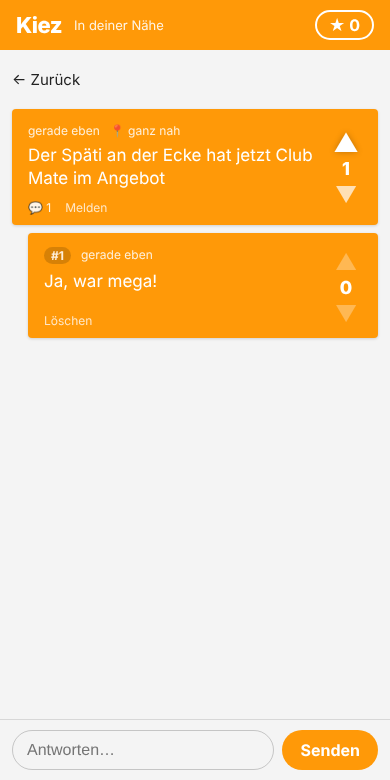
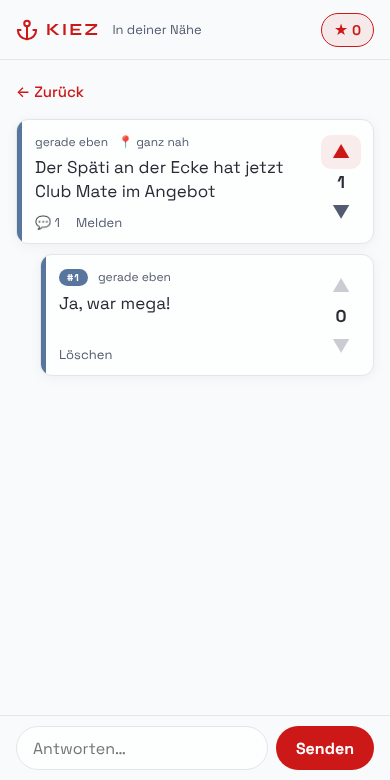
Design im Stil der Ideenwerft Friedenau
Ideenwerft-Rot, Space Grotesk und Syne, Anker-Logo, helle Karten mit
Farbakzent statt vollfarbiger Kacheln, Pillen-Tabs und Dark Mode.

Claude-Session: https://claude.ai/code/session_01GqcVvFXFRq6w9B8nTS5iGW

diff --git a/public/style.css b/public/style.css
@@ -1,66 +1,129 @@
-* { box-sizing: border-box; }
-:root { --orange: #FF9908; --bg: #f4f4f4; --text: #222; --muted: #888; --card-text: #fff; }
-@media (prefers-color-scheme: dark) { :root { --bg: #151515; --text: #eee; --muted: #999; } }
-html, body { margin: 0; background: var(--bg); color: var(--text);
-  font-family: -apple-system, BlinkMacSystemFont, "Segoe UI", Roboto, sans-serif; -webkit-tap-highlight-color: transparent; }
-body { padding-bottom: 96px; }
-button { font: inherit; cursor: pointer; }
+/* Kiez im Stil der Ideenwerft Friedenau: Space Grotesk, Syne, Ideenwerft-Rot, helle Karten */
+@font-face { font-family: 'Space Grotesk'; src: url('/fonts/SpaceGrotesk.woff2') format('woff2'); font-weight: 300 700; font-display: swap; }
+@font-face { font-family: 'Syne'; src: url('/fonts/Syne.woff2') format('woff2'); font-weight: 600 700; font-display: swap; }
 
-.topbar { position: sticky; top: 0; z-index: 5; display: flex; align-items: center; gap: 12px;
-  padding: calc(10px + env(safe-area-inset-top)) 16px 10px; background: var(--orange); color: #fff; }
-.brand { font-weight: 800; font-size: 22px; letter-spacing: -0.5px; }
-.place { flex: 1; font-size: 13px; opacity: .9; white-space: nowrap; overflow: hidden; text-overflow: ellipsis; }
-.karma { border: 2px solid #fff; background: transparent; color: #fff; border-radius: 20px; padding: 3px 12px; font-weight: 700; }
+* { box-sizing: border-box; }
+:root {
+  --background: hsl(210 30% 98%);
+  --foreground: hsl(220 15% 18%);
+  --card: hsl(210 20% 99.5%);
+  --muted: hsl(210 18% 95%);
+  --muted-foreground: hsl(220 14% 38%);
+  --border: hsl(210 15% 90%);
+  --primary: hsl(0 79% 45%);
+  --primary-soft: hsl(0 79% 45% / 0.08);
+  --primary-foreground: #fff;
+  --radius: 0.75rem;
+  --shadow: 0 2px 12px hsl(220 15% 18% / 0.05);
+  --font: 'Space Grotesk', system-ui, sans-serif;
+  --font-display: 'Syne', 'Space Grotesk', sans-serif;
+}
+@media (prefers-color-scheme: dark) {
+  :root {
+    --background: hsl(220 20% 10%);
+    --foreground: hsl(210 20% 92%);
+    --card: hsl(220 18% 13%);
+    --muted: hsl(220 15% 18%);
+    --muted-foreground: hsl(210 22% 75%);
+    --border: hsl(220 12% 22%);
+    --primary: hsl(0 72% 55%);
+    --primary-soft: hsl(0 72% 55% / 0.14);
+    --shadow: 0 2px 12px hsl(0 0% 0% / 0.25);
+  }
+}
+
+html, body { margin: 0; background: var(--background); color: var(--foreground); font-family: var(--font);
+  -webkit-font-smoothing: antialiased; -webkit-tap-highlight-color: transparent; }
+body { padding-bottom: 104px; }
+button { font: inherit; cursor: pointer; color: inherit; }
+[hidden] { display: none !important; }
+*:focus-visible { outline: 2px solid var(--primary); outline-offset: 2px; }
+
+/* Kopfzeile */
+.topbar { position: sticky; top: 0; z-index: 5; display: flex; align-items: center; gap: 12px; height: calc(60px + env(safe-area-inset-top));
+  padding: env(safe-area-inset-top) 16px 0; background: color-mix(in srgb, var(--background) 92%, transparent);
+  backdrop-filter: blur(16px); -webkit-backdrop-filter: blur(16px); border-bottom: 1px solid var(--border); }
+.brand { display: flex; align-items: center; gap: 8px; color: var(--primary); text-decoration: none; }
+.brand span { font-family: var(--font-display); font-weight: 700; letter-spacing: 0.12em; font-size: 17px; }
+.place { flex: 1; font-size: 13px; color: var(--muted-foreground); white-space: nowrap; overflow: hidden; text-overflow: ellipsis; }
+.karma { border: 1.5px solid var(--primary); background: var(--primary-soft); color: var(--primary); border-radius: 999px;
+  padding: 4px 12px; font-weight: 700; font-size: 14px; min-height: 34px; }
 .karma::before { content: "★ "; }
 
-.tabs { position: sticky; top: 52px; z-index: 4; display: flex; background: var(--orange); padding: 0 8px; }
-.tabs button { flex: 1; border: 0; background: transparent; color: rgba(255,255,255,.75); padding: 10px 4px;
-  font-weight: 600; border-bottom: 3px solid transparent; }
-.tabs button.active { color: #fff; border-bottom-color: #fff; }
+/* Überschrift wie die SectionHeader der Ideenwerft */
+.intro { max-width: 640px; margin: 0 auto; padding: 22px 16px 6px; }
+.eyebrow { display: block; font-size: 11px; font-weight: 700; text-transform: uppercase; letter-spacing: 0.16em; color: var(--primary); }
+.intro h1 { margin: 4px 0 0; font-size: 26px; font-weight: 700; letter-spacing: -0.01em; }
 
-main { max-width: 640px; margin: 0 auto; padding: 8px 0; }
-.post { position: relative; display: flex; gap: 8px; margin: 8px 12px; padding: 14px 10px 10px 16px; border-radius: 4px;
-  color: var(--card-text); min-height: 110px; box-shadow: 0 1px 3px rgba(0,0,0,.15); }
-.post .body { flex: 1; min-width: 0; display: flex; flex-direction: column; cursor: pointer; }
-.post .meta { font-size: 12px; opacity: .85; margin-bottom: 6px; display: flex; gap: 10px; }
-.post .text { font-size: 17px; line-height: 1.35; white-space: pre-wrap; word-wrap: break-word; flex: 1; }
-.post .footer { font-size: 12px; opacity: .9; margin-top: 10px; display: flex; gap: 14px; align-items: center; }
-.post .footer button { border: 0; background: transparent; color: inherit; opacity: .85; padding: 0; font-size: 12px; }
-.badge { background: rgba(0,0,0,.18); border-radius: 10px; padding: 1px 7px; font-weight: 700; }
+/* Sortierung als Pillen */
+.tabs { position: sticky; top: calc(60px + env(safe-area-inset-top)); z-index: 4; display: flex; gap: 6px; max-width: 640px; margin: 0 auto;
+  padding: 10px 16px; background: var(--background); }
+.tabs button { border: 1px solid var(--border); background: var(--card); padding: 8px 14px; border-radius: 999px; font-size: 14px;
+  font-weight: 500; color: var(--foreground); min-height: 38px; }
+.tabs button.active { border-color: transparent; background: var(--primary-soft); color: var(--primary); font-weight: 700; }
 
-.votes { display: flex; flex-direction: column; align-items: center; justify-content: center; width: 44px; }
-.votes button { border: 0; background: transparent; color: #fff; font-size: 22px; line-height: 1; padding: 4px 8px; opacity: .7; }
-.votes button.on { opacity: 1; transform: scale(1.15); text-shadow: 0 0 6px rgba(0,0,0,.25); }
+main { max-width: 640px; margin: 0 auto; padding: 4px 0 8px; }
+
+/* Post-Karten */
+.post { position: relative; display: flex; gap: 8px; margin: 10px 16px; padding: 14px 8px 12px 18px; border-radius: var(--radius);
+  background: var(--card); border: 1px solid var(--border); box-shadow: var(--shadow); overflow: hidden; min-height: 108px; }
+.post::before { content: ""; position: absolute; left: 0; top: 0; bottom: 0; width: 5px; background: var(--accent, var(--primary)); }
+.post .body { flex: 1; min-width: 0; display: flex; flex-direction: column; }
+.post .body[onclick], .post:not(.reply) .body { cursor: pointer; }
+.post .meta { font-size: 12px; color: var(--muted-foreground); margin-bottom: 6px; display: flex; gap: 10px; align-items: center; flex-wrap: wrap; }
+.post .text { font-size: 17px; line-height: 1.4; white-space: pre-wrap; overflow-wrap: anywhere; flex: 1; }
+.post .footer { font-size: 13px; color: var(--muted-foreground); margin-top: 10px; display: flex; gap: 16px; align-items: center; }
+.post .footer button { border: 0; background: transparent; color: inherit; padding: 0; font-size: 13px; min-height: 0; min-width: 0; }
+.post .footer button:hover { color: var(--primary); }
+.badge { font-size: 10px; font-weight: 700; text-transform: uppercase; letter-spacing: 0.1em; color: #fff;
+  background: var(--accent, var(--primary)); border-radius: 999px; padding: 2px 8px; }
+
+.votes { display: flex; flex-direction: column; align-items: center; justify-content: center; width: 48px; }
+.votes button { border: 0; background: transparent; color: var(--muted-foreground); font-size: 18px; line-height: 1;
+  width: 40px; height: 34px; border-radius: 10px; }
+.votes button:hover:not(:disabled) { background: var(--muted); }
+.votes button.on { color: var(--primary); background: var(--primary-soft); }
 .votes button:disabled { opacity: .3; cursor: default; }
-.votes .score { font-weight: 800; font-size: 18px; }
+.votes .score { font-weight: 700; font-size: 17px; padding: 2px 0; }
 
-.detail-head { display: flex; align-items: center; gap: 8px; padding: 4px 12px; }
-.detail-head button { border: 0; background: transparent; color: var(--text); font-size: 15px; padding: 8px 0; }
-.reply { min-height: 80px; margin-left: 28px; }
-.reply-form { position: fixed; left: 0; right: 0; bottom: 0; display: flex; gap: 8px; padding: 10px 12px calc(10px + env(safe-area-inset-bottom));
-  background: var(--bg); border-top: 1px solid rgba(128,128,128,.25); max-width: 640px; margin: 0 auto; }
-.reply-form input { flex: 1; border: 1px solid rgba(128,128,128,.4); border-radius: 20px; padding: 10px 14px; font-size: 16px;
-  background: transparent; color: var(--text); }
+/* Detailansicht */
+.detail-head { max-width: 640px; margin: 0 auto; padding: 10px 16px 0; }
+.detail-head button { border: 0; background: transparent; font-size: 15px; font-weight: 500; padding: 8px 0; color: var(--primary); }
+.reply { min-height: 84px; margin-left: 40px; }
+.reply-form { position: fixed; left: 0; right: 0; bottom: 0; display: flex; gap: 8px; padding: 10px 16px calc(10px + env(safe-area-inset-bottom));
+  background: color-mix(in srgb, var(--background) 92%, transparent); backdrop-filter: blur(16px); -webkit-backdrop-filter: blur(16px);
+  border-top: 1px solid var(--border); }
+.reply-form input { flex: 1; border: 1px solid var(--border); border-radius: 999px; padding: 10px 16px; font: inherit; font-size: 16px;
+  background: var(--card); color: var(--foreground); min-height: 44px; }
+.reply-form input:focus { outline: 2px solid var(--primary); outline-offset: 0; }
 
+/* Buttons */
 .fab { position: fixed; right: 20px; bottom: calc(24px + env(safe-area-inset-bottom)); width: 60px; height: 60px; border-radius: 50%;
-  border: 0; background: var(--orange); color: #fff; font-size: 34px; line-height: 1; box-shadow: 0 4px 12px rgba(0,0,0,.3); }
-.primary { border: 0; background: var(--orange); color: #fff; border-radius: 20px; padding: 10px 18px; font-weight: 700; }
-.ghost { border: 0; background: transparent; color: var(--text); padding: 10px 14px; }
+  border: 0; background: var(--primary); color: var(--primary-foreground); display: grid; place-items: center;
+  box-shadow: 0 8px 24px hsl(0 79% 45% / 0.35); }
+.primary { border: 0; background: var(--primary); color: var(--primary-foreground); border-radius: 999px; padding: 10px 20px; font-weight: 700; min-height: 44px; }
+.ghost { border: 0; background: transparent; color: var(--foreground); padding: 10px 14px; min-height: 44px; }
 
-dialog { border: 0; padding: 0; background: transparent; width: min(560px, 94vw); }
-dialog::backdrop { background: rgba(0,0,0,.55); }
-.compose-card { border-radius: 6px; padding: 16px; transition: background .2s; }
-.compose-card textarea { width: 100%; min-height: 160px; border: 0; resize: none; background: transparent; color: #fff;
-  font-size: 19px; font-family: inherit; outline: none; }
-.compose-card textarea::placeholder { color: rgba(255,255,255,.7); }
-.counter { text-align: right; color: rgba(255,255,255,.85); font-size: 12px; }
-.compose-actions { display: flex; justify-content: flex-end; gap: 8px; margin-top: 10px; }
+/* Neuer Post */
+dialog { border: 0; padding: 0; background: transparent; width: min(560px, calc(100vw - 32px)); color: var(--foreground); }
+dialog::backdrop { background: hsl(220 15% 10% / 0.55); backdrop-filter: blur(2px); }
+.compose-card { position: relative; background: var(--card); border: 1px solid var(--border); border-radius: var(--radius);
+  padding: 16px 16px 12px 20px; box-shadow: var(--shadow); overflow: hidden; }
+.compose-card::before { content: ""; position: absolute; left: 0; top: 0; bottom: 0; width: 5px; background: var(--primary); }
+.compose-card textarea { width: 100%; min-height: 160px; margin-top: 8px; border: 0; resize: none; background: transparent; color: var(--foreground);
+  font: inherit; font-size: 19px; outline: none; }
+.compose-card textarea::placeholder { color: var(--muted-foreground); }
+.counter { text-align: right; color: var(--muted-foreground); font-size: 12px; }
+.compose-actions { display: flex; justify-content: flex-end; gap: 8px; margin-top: 12px; }
 .compose-actions .ghost { color: #fff; }
 
-.empty { text-align: center; color: var(--muted); padding: 60px 24px; line-height: 1.5; }
+/* Leerzustand, Städteauswahl, Toast */
+.empty { text-align: center; color: var(--muted-foreground); padding: 56px 24px; line-height: 1.5; }
 .empty button { margin-top: 14px; }
 .city-list { display: flex; flex-wrap: wrap; gap: 8px; justify-content: center; margin-top: 12px; }
-.city-list button { border: 1px solid var(--orange); background: transparent; color: var(--orange); border-radius: 16px; padding: 6px 12px; }
-.toast { position: fixed; left: 50%; bottom: 100px; transform: translateX(-50%); background: #333; color: #fff;
-  padding: 10px 16px; border-radius: 20px; font-size: 14px; z-index: 20; max-width: 90vw; }
-[hidden] { display: none !important; }
+.city-list button { border: 1px solid var(--border); background: var(--card); color: var(--foreground); border-radius: 999px; padding: 8px 14px; }
+.city-list button:hover { border-color: var(--primary); color: var(--primary); }
+.toast { position: fixed; left: 50%; bottom: 100px; transform: translateX(-50%); background: var(--foreground); color: var(--background);
+  padding: 10px 18px; border-radius: 999px; font-size: 14px; z-index: 20; max-width: 90vw; box-shadow: var(--shadow); }
+
+@media (prefers-reduced-motion: reduce) { * { transition: none !important; animation: none !important; } }

diff --git a/public/index.html b/public/index.html
@@ -3,21 +3,32 @@
 <head>
   <meta charset="utf-8">
   <meta name="viewport" content="width=device-width, initial-scale=1, viewport-fit=cover">
-  <meta name="theme-color" content="#FF9908">
+  <meta name="theme-color" content="#F7F9FB" media="(prefers-color-scheme: light)">
+  <meta name="theme-color" content="#14171F" media="(prefers-color-scheme: dark)">
   <title>Kiez – was passiert um dich herum</title>
   <link rel="manifest" href="/manifest.webmanifest">
   <link rel="icon" href="/icon.svg" type="image/svg+xml">
   <link rel="apple-touch-icon" href="/icon.svg">
+  <link rel="preload" href="/fonts/SpaceGrotesk.woff2" as="font" type="font/woff2" crossorigin>
+  <link rel="preload" href="/fonts/Syne.woff2" as="font" type="font/woff2" crossorigin>
   <link rel="stylesheet" href="/style.css">
 </head>
 <body>
   <header class="topbar">
-    <div class="brand">Kiez</div>
+    <a class="brand" href="/" aria-label="Kiez – Startseite">
+      <svg class="anchor" viewBox="0 0 24 24" width="22" height="22" fill="none" stroke="currentColor" stroke-width="2.2" stroke-linecap="round" stroke-linejoin="round" aria-hidden="true"><path d="M12 22V8"/><path d="M5 12H2a10 10 0 0 0 20 0h-3"/><circle cx="12" cy="5" r="3"/></svg>
+      <span>KIEZ</span>
+    </a>
     <div class="place" id="place">Standort wird gesucht…</div>
     <button class="karma" id="karma" title="Dein Karma">0</button>
   </header>
 
-  <nav class="tabs" id="tabs">
+  <section class="intro" id="intro">
+    <span class="eyebrow">Anonym · im Umkreis von 10 km</span>
+    <h1>Was los ist im Kiez</h1>
+  </section>
+
+  <nav class="tabs" id="tabs" aria-label="Sortierung">
     <button data-sort="new" class="active">Neueste</button>
     <button data-sort="popular">Beliebt</button>
     <button data-sort="loud">Am lautesten</button>
@@ -25,11 +36,14 @@
 
   <main id="view"></main>
 
-  <button class="fab" id="fab" aria-label="Neuer Post">+</button>
+  <button class="fab" id="fab" aria-label="Neuer Post">
+    <svg viewBox="0 0 24 24" width="26" height="26" fill="none" stroke="currentColor" stroke-width="2.5" stroke-linecap="round" aria-hidden="true"><path d="M12 5v14M5 12h14"/></svg>
+  </button>
 
   <dialog id="composer">
     <form method="dialog" id="composeForm">
       <div class="compose-card" id="composeCard">
+        <span class="eyebrow">Neuer Post</span>
         <textarea id="composeText" maxlength="250" placeholder="Was ist los in deiner Gegend?" required></textarea>
         <div class="counter"><span id="count">0</span>/250</div>
       </div>

diff --git a/public/app.js b/public/app.js
@@ -2,7 +2,6 @@
 const $ = (s) => document.querySelector(s);
 const view = $('#view');
 const state = { token: null, coords: null, sort: 'new', openPost: null };
-const COLORS = ['#FF9908', '#FFBA00', '#DD5F5F', '#06A3CB', '#8ABDB0', '#9EC41C'];
 // Ausweich-Standorte, falls die Standortfreigabe fehlt (z. B. zum Testen am Desktop)
 const CITIES = { Berlin: [52.52, 13.405], Hamburg: [53.551, 9.993], München: [48.137, 11.575], Köln: [50.937, 6.96],
   Leipzig: [51.34, 12.375], Wien: [48.208, 16.373], Zürich: [47.377, 8.541] };
@@ -95,12 +94,12 @@ function postCard(p, { isReply = false, onOpen } = {}) {
     el('div', { class: 'text' }, p.text),
     el('div', { class: 'footer' }, isReply ? null : el('span', {}, `💬 ${p.commentCount}`), ...actions));
 
-  return el('article', { class: 'post' + (isReply ? ' reply' : ''), style: `background:${p.color}` }, body, votes);
+  return el('article', { class: 'post' + (isReply ? ' reply' : ''), style: `--accent:${p.color}` }, body, votes);
 }
 
 async function showFeed() {
   state.openPost = null;
-  $('#tabs').hidden = false; $('#fab').hidden = false;
+  $('#tabs').hidden = false; $('#fab').hidden = false; $('#intro').hidden = false;
   history.replaceState(null, '', '/');
   try {
     const { posts, radiusKm } = await api(`/api/posts?${qs()}&sort=${state.sort}`);
@@ -118,7 +117,7 @@ async function showFeed() {
 
 async function openPost(id) {
   state.openPost = id;
-  $('#tabs').hidden = true; $('#fab').hidden = true;
+  $('#tabs').hidden = true; $('#fab').hidden = true; $('#intro').hidden = true;
   try {
     const { post, replies } = await api(`/api/posts/${id}?${qs()}`);
     const input = el('input', { placeholder: 'Antworten…', maxlength: 250, required: true });
@@ -138,8 +137,6 @@ async function openPost(id) {
 }
 
 function openComposer() {
-  const color = COLORS[Math.floor(Math.random() * COLORS.length)];
-  $('#composeCard').style.background = color;
   $('#composeText').value = ''; $('#count').textContent = '0';
   $('#composer').showModal();
   $('#composeText').focus();

diff --git a/server.js b/server.js
@@ -11,7 +11,8 @@ const DB_FILE = process.env.DB_FILE || path.join(__dirname, 'jodel.db');
 const PUBLIC_DIR = path.join(__dirname, 'public');
 const DELETE_AT_SCORE = -5;          // Posts mit diesem Score verschwinden (wie bei Jodel)
 const MAX_LEN = 250;
-const COLORS = ['#FF9908', '#FFBA00', '#DD5F5F', '#06A3CB', '#8ABDB0', '#9EC41C'];
+// Akzentfarben aus der Ideenwerft-Palette (Rot, Stahlblau, Bernstein, Grün, Pflaume, Petrol)
+const COLORS = ['#CD1818', '#58769D', '#CF8217', '#29A366', '#9B3B6B', '#30878F'];
 
 const db = new DatabaseSync(DB_FILE);
 db.exec(`
@@ -140,7 +141,7 @@ function validText(t) {
 }
 
 const MIME = { '.html': 'text/html', '.js': 'text/javascript', '.css': 'text/css', '.json': 'application/json',
-  '.webmanifest': 'application/manifest+json', '.svg': 'image/svg+xml', '.png': 'image/png' };
+  '.webmanifest': 'application/manifest+json', '.svg': 'image/svg+xml', '.png': 'image/png', '.woff2': 'font/woff2', '.webp': 'image/webp' };
 
 function serveStatic(req, res, pathname) {
   const file = path.normalize(path.join(PUBLIC_DIR, pathname === '/' ? 'index.html' : pathname));
@@ -154,7 +155,8 @@ function serveStatic(req, res, pathname) {
         res.end(html);
       });
     }
-    res.writeHead(200, { 'Content-Type': (MIME[path.extname(file)] || 'application/octet-stream') + '; charset=utf-8' });
+    const type = MIME[path.extname(file)] || 'application/octet-stream';
+    res.writeHead(200, { 'Content-Type': type.startsWith('text/') || type.endsWith('json') ? type + '; charset=utf-8' : type });
     res.end(data);
   });
 }

diff --git a/public/sw.js b/public/sw.js
@@ -1,6 +1,6 @@
 // Service Worker: App-Shell offline, API immer frisch
-const CACHE = 'kiez-v1';
-const SHELL = ['/', '/style.css', '/app.js', '/icon.svg', '/manifest.webmanifest'];
+const CACHE = 'kiez-v2';
+const SHELL = ['/', '/style.css', '/app.js', '/icon.svg', '/manifest.webmanifest', '/fonts/SpaceGrotesk.woff2', '/fonts/Syne.woff2'];
 self.addEventListener('install', (e) => e.waitUntil(caches.open(CACHE).then((c) => c.addAll(SHELL))));
 self.addEventListener('activate', (e) => e.waitUntil(
   caches.keys().then((keys) => Promise.all(keys.filter((k) => k !== CACHE).map((k) => caches.delete(k))))));

diff --git a/README.md b/README.md
@@ -1,8 +1,9 @@
 # Kiez – hyperlokale, anonyme Community-App (Jodel-Klon)
 
 Anonyme Posts, die nur Leute im Umkreis von 10 km sehen. Mit Up-/Downvotes, Antworten, Karma und Sortierung.
+Gestaltet im Stil der Ideenwerft Friedenau: Ideenwerft-Rot, Space Grotesk und Syne, Anker-Logo, helle Karten mit Farbakzent, Dark Mode.
 
-![Feed](docs/feed.png) ![Antworten](docs/detail.png)
+![Feed](docs/feed.png) ![Antworten](docs/detail.png) ![Dark Mode](docs/dark.png)
 
 ## Starten
 
@@ -52,7 +53,8 @@ Die angezeigte https-Adresse am Handy öffnen und über „Zum Startbildschirm h
 server.js            HTTP-Server, REST-API, SQLite (node:sqlite)
 public/index.html    App-Hülle
 public/app.js        Frontend (ohne Framework)
-public/style.css     Design, inkl. Dark Mode
+public/style.css     Design im Ideenwerft-Stil, inkl. Dark Mode
+public/fonts/        Space Grotesk und Syne (aus dem Ideenwerft-Repo)
 public/sw.js         Service Worker
 test/api.test.js     API-Tests
 ```
